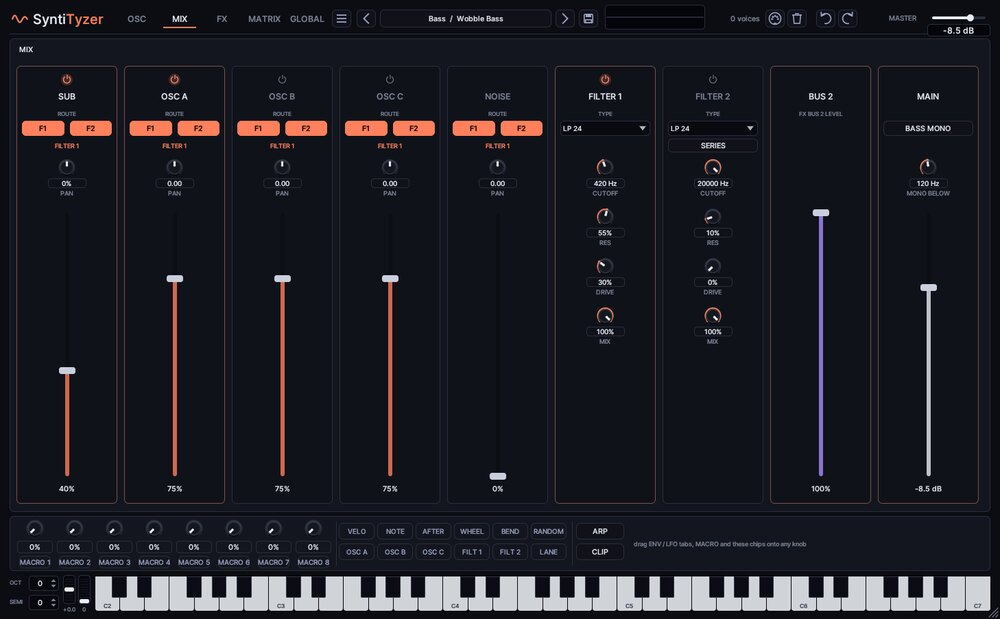
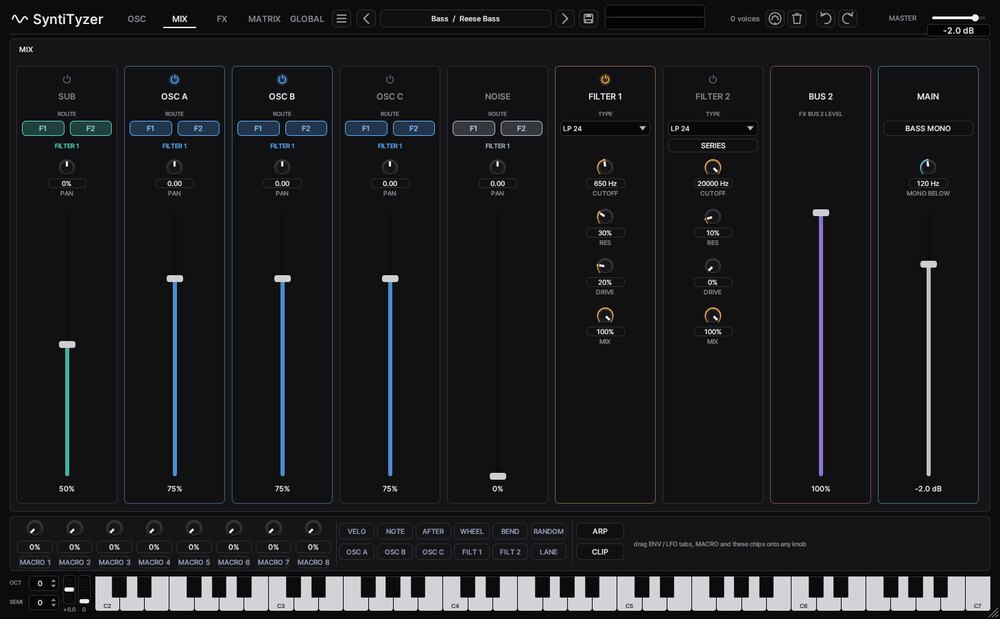
SyntiTyzer: new screenshots (themes with pictures) and description
Claude-Session: https://claude.ai/code/session_013jKKu6QEcWQprfHFTeKF77

diff --git a/src/model.rs b/src/model.rs
@@ -61,7 +61,7 @@ pub const BUILTIN: &[PluginDef] = &[
         description: "Serum-style wavetable synth: 3 oscillators with wavetable, sample, granular, \
                       multisample and spectral modes, two filters, mod matrix, effect rack and 146 factory presets.",
         tags: &["VST3", "Synth", "Wavetable"],
-        long: "SyntiTyzer (formerly NyashkSynth): a wavetable synthesizer with a dark blue-graphite design, 3D wavetable views and a tabbed modulation section. Three oscillators, each a wavetable, sample, granular, multisample or spectral source, run through two filters, a 16-slot mod matrix and a two-bus effect rack. Includes a wavetable editor, 146 factory presets and a powerful arpeggiator and clip sequencer.",
+        long: "SyntiTyzer (formerly NyashkSynth): a wavetable synthesizer with a black / grey / white design where every module type has its own colour, themes you can make and share (pictures included), movable modules, 3D wavetable views and a tabbed modulation section. Three oscillators, each a wavetable, sample, granular, multisample or spectral source, run through two filters, a 16-slot mod matrix and a two-bus effect rack. Includes a wavetable editor, 146 factory presets and a powerful arpeggiator and clip sequencer.",
         features: &[
             "3 oscillators: wavetable, sample, granular, multisample (.sfz) and spectral, with 22 warp modes and unison up to 16 voices",
             "Wavetable editor: draw, harmonics, formulas, multi-frame editing, morphing, import / export of .wav tables",
@@ -78,7 +78,7 @@ pub const BUILTIN: &[PluginDef] = &[
             Shot { caption: "Wavetable editor", data: include_bytes!("../assets/synth_2.jpg") },
             Shot { caption: "Mixer", data: include_bytes!("../assets/synth_3.jpg") },
             Shot { caption: "Effect rack", data: include_bytes!("../assets/synth_4.jpg") },
-            Shot { caption: "Custom point filter", data: include_bytes!("../assets/synth_5.jpg") },
+            Shot { caption: "Themes with pictures", data: include_bytes!("../assets/synth_5.jpg") },
             Shot { caption: "Preset browser", data: include_bytes!("../assets/synth_6.jpg") },
         ],
         replaces: &["NyashkSynth.vst3"],

diff --git a/RELEASE_NOTES.md b/RELEASE_NOTES.md
@@ -1,6 +1,6 @@
 # Nyashk Launcher v1.1.3
 
-- NyashkSynth тепер називається **SyntiTyzer**: новий бандл `SyntiTyzer.vst3`, нові фото й опис. Якщо в тебе стоїть старий `NyashkSynth.vst3`, лаунчер показує оновлення і при встановленні прибирає старий бандл, щоб у DAW не було двох копій одного плагіна. Старі проєкти відкриваються з SyntiTyzer.
+- NyashkSynth тепер називається **SyntiTyzer**: новий бандл `SyntiTyzer.vst3`, нові фото й опис (зокрема теми з картинками). Якщо в тебе стоїть старий `NyashkSynth.vst3`, лаунчер показує оновлення і при встановленні прибирає старий бандл, щоб у DAW не було двох копій одного плагіна. Старі проєкти відкриваються з SyntiTyzer.
 
 # Nyashk Launcher v1.1.2
 
